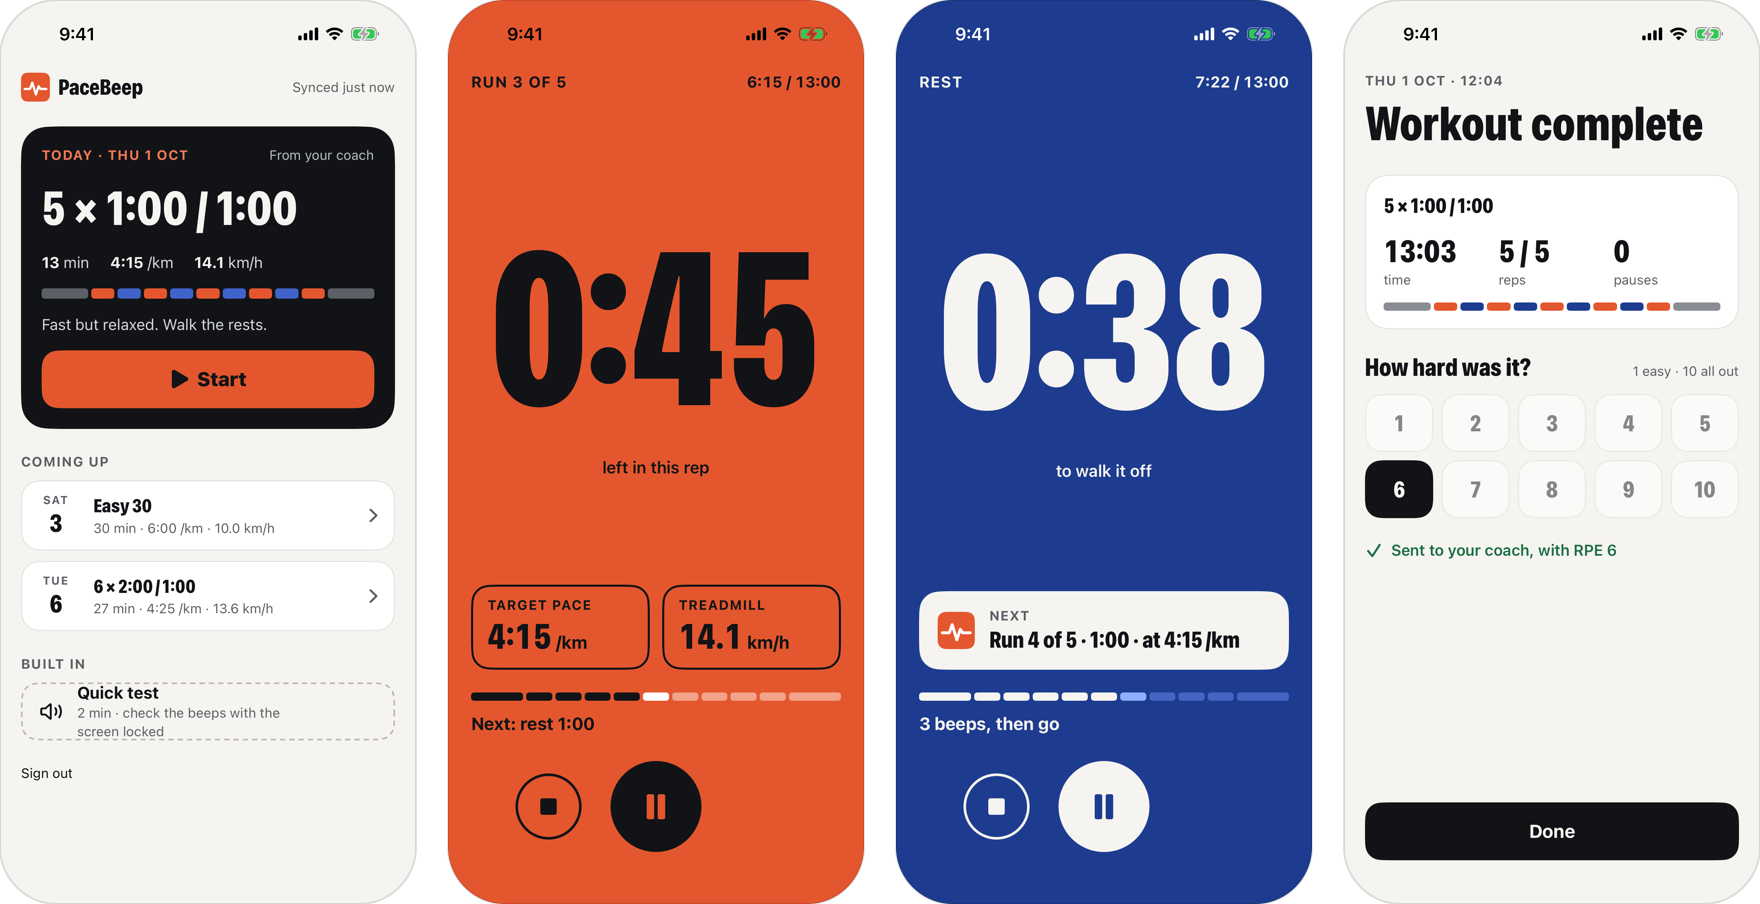
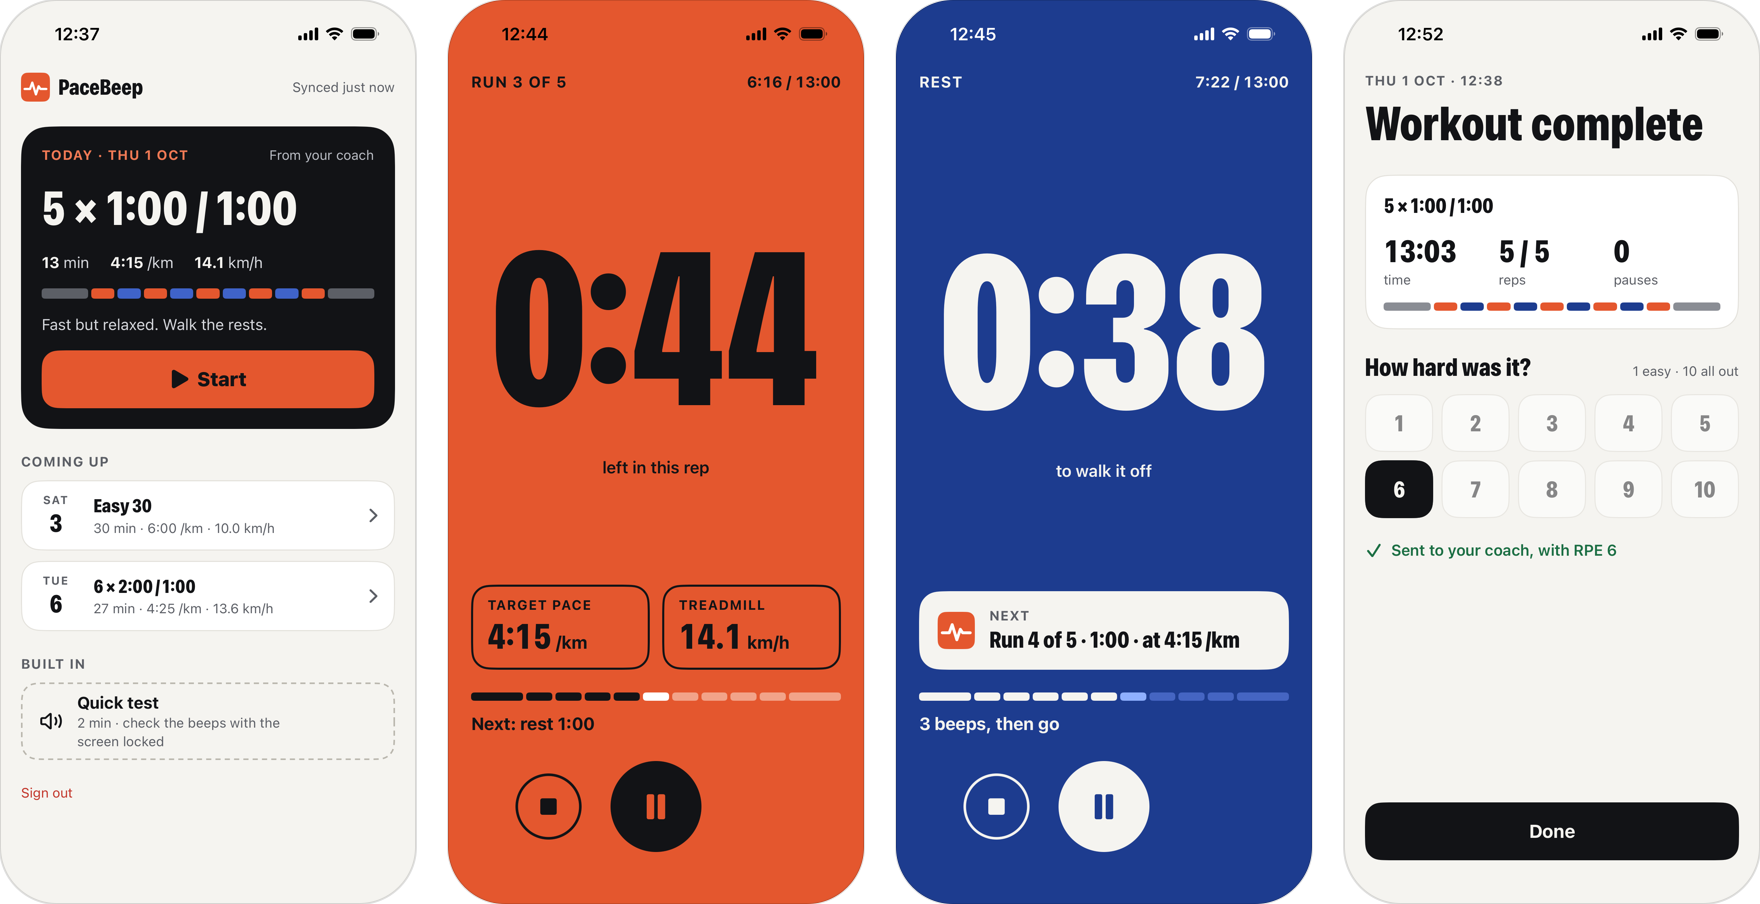
README screenshots: retaken with the fixes
Taken with scripts/screenshots, which this retake also tested end to
end: the status bar keeps the real time (so it agrees with the run's
start time) and shows a plain full battery; the Quick test row is padded
and Sign out is red; the dashboard says "28 Sep–4 Oct". The steps note
where the Live Activity card sits with and without iOS's one-time prompt.

diff --git a/scripts/screenshots/README.md b/scripts/screenshots/README.md
@@ -40,7 +40,7 @@ The status bar keeps the real time, so it agrees with the start time on the afte
 | `lock-rest.png` | 9:28 in (the rest after run 4) |
 | `done.png` | After 13:03, unlock, pick an RPE |
 
-On a fresh install iOS asks once below the Live Activity whether to allow it; the crop below leaves that out.
+On a fresh install iOS asks once, under the Live Activity, whether to allow it. While that prompt shows, the card sits higher on the lock screen (y = 1573 on iPhone 17 Pro); once it's answered, the card sits at the bottom (y = 1890). Either way the crop below takes the card alone.
 
 ## 3. Web
 
@@ -54,7 +54,7 @@ Headless Chrome with a throwaway profile, signed in as the demo account, at 2x; 
 
 ```bash
 swift scripts/screenshots/compose.swift phones docs/screenshots/app.png home.png run-work.png run-rest.png done.png
-# Live Activity crops in pixels (iPhone 17 Pro); check them if the device or the card's layout changes.
-swift scripts/screenshots/compose.swift cards docs/screenshots/live-activity.png lock-work.png@42,1573,1122,346 lock-rest.png@42,1890,1122,346
+# Live Activity crops in pixels (iPhone 17 Pro, prompt showing; use y = 1890 once it's answered).
+swift scripts/screenshots/compose.swift cards docs/screenshots/live-activity.png lock-work.png@42,1573,1122,346 lock-rest.png@42,1573,1122,346
 swift scripts/screenshots/compose.swift page docs/screenshots/dashboard.png dashboard.png
 ```
